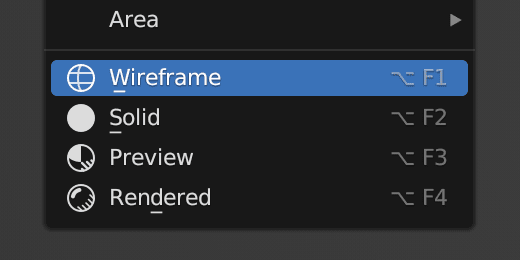
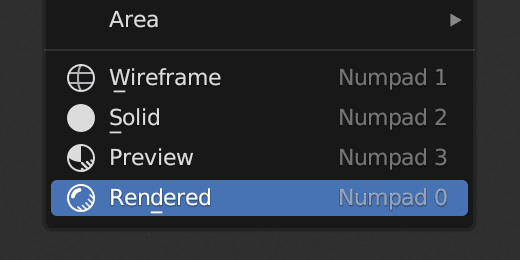
Updating default keyboard shortcuts to use the number pad, adding GitHub links

diff --git a/VF_setViewportShading.py b/VF_setViewportShading.py
@@ -2,12 +2,12 @@ bl_info = {
 	"name": "VF Set Viewport Shading",
 	"author": "John Einselen - Vectorform LLC",
 	"version": (0, 0, 2),
-	"blender": (2, 80, 0),
+	"blender": (2, 83, 0),
 	"location": "View3D > View",
 	"description": "Sets viewport shading from the menu, allowing for keyboard shortcuts to specific modes",
 	"warning": "inexperienced developer, use at your own risk",
-	"wiki_url": "",
-	"tracker_url": "",
+	"doc_url": "https://github.com/jeinselenVF/VF-BlenderSetViewportShading",
+	"tracker_url": "https://github.com/jeinselenVF/VF-BlenderSetViewportShading/issues",
 	"category": "3D View"}
 
 import bpy
@@ -68,26 +68,26 @@ def register():
 	kc = wm.keyconfigs.addon
 	if kc:
 		km = wm.keyconfigs.addon.keymaps.new(name='3D View', space_type='VIEW_3D')
-#		kmi = km.keymap_items.new(VF_SET_SHADING_OT_set_viewport_shading.bl_idname, 'NUMPAD_0', 'PRESS')
-		kmi = km.keymap_items.new(VF_SET_SHADING_OT_set_viewport_shading.bl_idname, 'F1', 'PRESS', alt=True)
+		kmi = km.keymap_items.new(VF_SET_SHADING_OT_set_viewport_shading.bl_idname, 'NUMPAD_1', 'PRESS')
+#		kmi = km.keymap_items.new(VF_SET_SHADING_OT_set_viewport_shading.bl_idname, 'F1', 'PRESS', alt=True)
 		kmi.properties.rendertype = 'WIREFRAME'
 		addon_keymaps.append((km, kmi))
 	if kc:
 		km = wm.keyconfigs.addon.keymaps.new(name='3D View', space_type='VIEW_3D')
-#		kmi = km.keymap_items.new(VF_SET_SHADING_OT_set_viewport_shading.bl_idname, 'NUMPAD_1', 'PRESS')
-		kmi = km.keymap_items.new(VF_SET_SHADING_OT_set_viewport_shading.bl_idname, 'F2', 'PRESS', alt=True)
+		kmi = km.keymap_items.new(VF_SET_SHADING_OT_set_viewport_shading.bl_idname, 'NUMPAD_2', 'PRESS')
+#		kmi = km.keymap_items.new(VF_SET_SHADING_OT_set_viewport_shading.bl_idname, 'F2', 'PRESS', alt=True)
 		kmi.properties.rendertype = 'SOLID'
 		addon_keymaps.append((km, kmi))
 	if kc:
 		km = wm.keyconfigs.addon.keymaps.new(name='3D View', space_type='VIEW_3D')
-#		kmi = km.keymap_items.new(VF_SET_SHADING_OT_set_viewport_shading.bl_idname, 'NUMPAD_2', 'PRESS')
-		kmi = km.keymap_items.new(VF_SET_SHADING_OT_set_viewport_shading.bl_idname, 'F3', 'PRESS', alt=True)
+		kmi = km.keymap_items.new(VF_SET_SHADING_OT_set_viewport_shading.bl_idname, 'NUMPAD_3', 'PRESS')
+#		kmi = km.keymap_items.new(VF_SET_SHADING_OT_set_viewport_shading.bl_idname, 'F3', 'PRESS', alt=True)
 		kmi.properties.rendertype = 'MATERIAL'
 		addon_keymaps.append((km, kmi))
 	if kc:
 		km = wm.keyconfigs.addon.keymaps.new(name='3D View', space_type='VIEW_3D')
-#		kmi = km.keymap_items.new(VF_SET_SHADING_OT_set_viewport_shading.bl_idname, 'NUMPAD_3', 'PRESS')
-		kmi = km.keymap_items.new(VF_SET_SHADING_OT_set_viewport_shading.bl_idname, 'F4', 'PRESS', alt=True)
+		kmi = km.keymap_items.new(VF_SET_SHADING_OT_set_viewport_shading.bl_idname, 'NUMPAD_0', 'PRESS')
+#		kmi = km.keymap_items.new(VF_SET_SHADING_OT_set_viewport_shading.bl_idname, 'F4', 'PRESS', alt=True)
 		kmi.properties.rendertype = 'RENDERED'
 		addon_keymaps.append((km, kmi))
 

diff --git a/README.md b/README.md
@@ -8,3 +8,5 @@ Adds view menu items and keyboard shortcuts for setting the current view mode (w
 - Open Blender Preferences and navigate to the "Add-ons" tab
 - Install and enable the Add-on
 - It will show up at the bottom of the `View` menu of 3D viewports
+
+The default keyboard shortcuts are for the number pad of a full size keyboard, but you can easily right-click any of the options to set your own.
